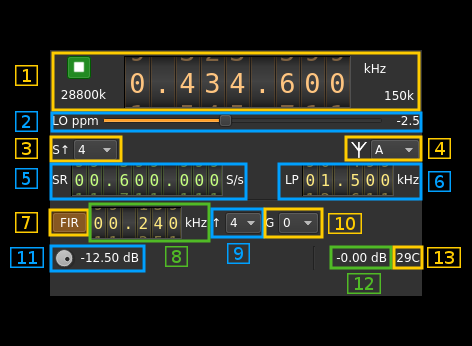
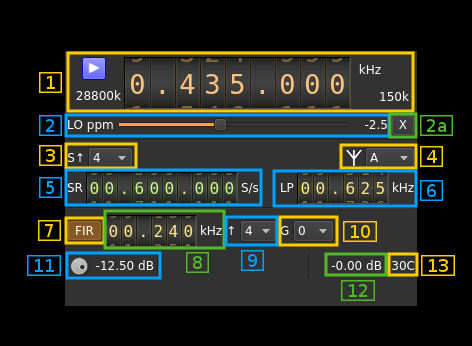
PlutoSDR output: implemented transverter feature

Changed region(s): [[0.0, 0.1445, 0.9788, 0.896], [0.3856, 0.2023, 0.4153, 0.2601]]

diff --git a/plugins/samplesink/plutosdroutput/plutosdroutputgui.cpp b/plugins/samplesink/plutosdroutput/plutosdroutputgui.cpp
@@ -44,7 +44,7 @@ PlutoSDROutputGUI::PlutoSDROutputGUI(DeviceSinkAPI *deviceAPI, QWidget* parent) 
 
     ui->setupUi(this);
     ui->centerFrequency->setColorMapper(ColorMapper(ColorMapper::GrayGold));
-    ui->centerFrequency->setValueRange(7, DevicePlutoSDR::loLowLimitFreq/1000, DevicePlutoSDR::loHighLimitFreq/1000);
+    updateFrequencyLimits();
 
     ui->sampleRate->setColorMapper(ColorMapper(ColorMapper::GrayGreenYellow));
     ui->sampleRate->setValueRange(8, DevicePlutoSDR::srLowLimitFreq, DevicePlutoSDR::srHighLimitFreq);
@@ -238,8 +238,21 @@ void PlutoSDROutputGUI::on_antenna_currentIndexChanged(int index)
     sendSettings();
 }
 
+void PlutoSDROutputGUI::on_transverter_clicked()
+{
+    m_settings.m_transverterMode = ui->transverter->getDeltaFrequencyAcive();
+    m_settings.m_transverterDeltaFrequency = ui->transverter->getDeltaFrequency();
+    qDebug("PlutoSDROutputGUI::on_transverter_clicked: %lld Hz %s", m_settings.m_transverterDeltaFrequency, m_settings.m_transverterMode ? "on" : "off");
+    updateFrequencyLimits();
+    m_settings.m_centerFrequency = ui->centerFrequency->getValueNew()*1000;
+    sendSettings();
+}
+
 void PlutoSDROutputGUI::displaySettings()
 {
+    ui->transverter->setDeltaFrequency(m_settings.m_transverterDeltaFrequency);
+    ui->transverter->setDeltaFrequencyActive(m_settings.m_transverterMode);
+    updateFrequencyLimits();
     ui->centerFrequency->setValue(m_settings.m_centerFrequency / 1000);
     ui->sampleRate->setValue(m_settings.m_devSampleRate);
 
@@ -360,6 +373,21 @@ void PlutoSDROutputGUI::setSampleRateLimits()
     uint32_t low = ui->lpFIREnable->isChecked() ? DevicePlutoSDR::srLowLimitFreq / (1<<ui->lpFIRInterpolation->currentIndex()) : DevicePlutoSDR::srLowLimitFreq;
     ui->sampleRate->setValueRange(8, low, DevicePlutoSDR::srHighLimitFreq);
     ui->sampleRate->setValue(m_settings.m_devSampleRate);
+}
+
+void PlutoSDROutputGUI::updateFrequencyLimits()
+{
+    // values in kHz
+    qint64 deltaFrequency = m_settings.m_transverterMode ? m_settings.m_transverterDeltaFrequency/1000 : 0;
+    qint64 minLimit = DevicePlutoSDR::loLowLimitFreq/1000 + deltaFrequency;
+    qint64 maxLimit = DevicePlutoSDR::loHighLimitFreq/1000 + deltaFrequency;
+
+    minLimit = minLimit < 0 ? 0 : minLimit > 9999999 ? 9999999 : minLimit;
+    maxLimit = maxLimit < 0 ? 0 : maxLimit > 9999999 ? 9999999 : maxLimit;
+
+    qDebug("PlutoSDRInputGui::updateFrequencyLimits: delta: %lld min: %lld max: %lld", deltaFrequency, minLimit, maxLimit);
+
+    ui->centerFrequency->setValueRange(7, minLimit, maxLimit);
 }
 
 void PlutoSDROutputGUI::handleInputMessages()

diff --git a/plugins/samplesink/plutosdroutput/plutosdroutput.cpp b/plugins/samplesink/plutosdroutput/plutosdroutput.cpp
@@ -343,11 +343,23 @@ bool PlutoSDROutput::applySettings(const PlutoSDROutputSettings& settings, bool 
     std::vector<std::string> params;
     bool paramsToSet = false;
 
-    if ((m_settings.m_centerFrequency != settings.m_centerFrequency) || force)
+    if (force || (m_settings.m_centerFrequency != settings.m_centerFrequency)
+        || (m_settings.m_transverterMode != settings.m_transverterMode)
+        || (m_settings.m_transverterDeltaFrequency != settings.m_transverterDeltaFrequency))
+
     {
-        params.push_back(QString(tr("out_altvoltage1_TX_LO_frequency=%1").arg(settings.m_centerFrequency)).toStdString());
+        qint64 deviceCenterFrequency = settings.m_centerFrequency;
+        deviceCenterFrequency -= settings.m_transverterMode ? settings.m_transverterDeltaFrequency : 0;
+        deviceCenterFrequency = deviceCenterFrequency < 0 ? 0 : deviceCenterFrequency;
+
+
+        params.push_back(QString(tr("out_altvoltage1_TX_LO_frequency=%1").arg(deviceCenterFrequency)).toStdString());
         paramsToSet = true;
         forwardChangeOwnDSP = true;
+
+        qDebug() << "PlutoSDROutput::applySettings: center freq: " << settings.m_centerFrequency << " Hz"
+                << " device center freq: " << deviceCenterFrequency << " Hz";
+
     }
 
     if ((m_settings.m_lpfBW != settings.m_lpfBW) || force)

diff --git a/plugins/samplesink/plutosdroutput/plutosdroutputsettings.cpp b/plugins/samplesink/plutosdroutput/plutosdroutputsettings.cpp
@@ -36,6 +36,8 @@ void PlutoSDROutputSettings::resetToDefaults()
 	m_lpfFIRlog2Interp = 0;
 	m_att = -50;
 	m_antennaPath = RFPATH_A;
+    m_transverterMode = false;
+    m_transverterDeltaFrequency = 0;
 }
 
 QByteArray PlutoSDROutputSettings::serialize() const
@@ -52,6 +54,8 @@ QByteArray PlutoSDROutputSettings::serialize() const
     s.writeU64(12, m_devSampleRate);
     s.writeS32(13, m_att);
     s.writeS32(14, (int) m_antennaPath);
+    s.writeBool(15, m_transverterMode);
+    s.writeS64(16, m_transverterDeltaFrequency);
 
 	return s.final();
 }
@@ -91,6 +95,8 @@ bool PlutoSDROutputSettings::deserialize(const QByteArray& data)
         } else {
             m_antennaPath = RFPATH_A;
         }
+        d.readBool(15, &m_transverterMode, false);
+        d.readS64(16, &m_transverterDeltaFrequency, 0);
 
 		return true;
 	}

diff --git a/plugins/samplesink/plutosdroutput/plutosdroutputgui.h b/plugins/samplesink/plutosdroutput/plutosdroutputgui.h
@@ -72,6 +72,7 @@ private:
     void updateSampleRateAndFrequency();
     void setFIRBWLimits();
     void setSampleRateLimits();
+    void updateFrequencyLimits();
 
 private slots:
     void on_startStop_toggled(bool checked);
@@ -86,6 +87,7 @@ private slots:
     void on_lpFIRGain_currentIndexChanged(int index);
     void on_att_valueChanged(int value);
     void on_antenna_currentIndexChanged(int index);
+    void on_transverter_clicked();
     void updateHardware();
     void updateStatus();
     void handleInputMessages();

diff --git a/plugins/samplesink/plutosdroutput/plutosdroutputsettings.h b/plugins/samplesink/plutosdroutput/plutosdroutputsettings.h
@@ -42,6 +42,8 @@ struct PlutoSDROutputSettings {
     quint32 m_lpfBW;              //!< analog lowpass filter bandwidth (Hz)
     qint32  m_att;                //!< "hardware" attenuation in dB fourths
     RFPath  m_antennaPath;
+    bool m_transverterMode;
+    qint64 m_transverterDeltaFrequency;
 
 
     PlutoSDROutputSettings();

diff --git a/plugins/samplesink/plutosdroutput/readme.md b/plugins/samplesink/plutosdroutput/readme.md
@@ -59,6 +59,36 @@ Baseband I/Q sample rate in kS/s. This is the host to device sample rate (5) div
 
 Use this slider to adjust LO correction in ppm. It can be varied from -20.0 to 20.0 in 0.1 steps and is applied in hardware. This applies to the oscillator that controls both the Tx and Rx frequency therefore it is also changed on the Rx plugin if it is active.
 
+<h3>2a: Transverter mode open dialog</h3>
+
+This button opens a dialog to set the transverter mode frequency translation options:
+
+![SDR Daemon source input stream trasverter dialog](../../../doc/img/RTLSDR_plugin_xvrt.png)
+
+Note that if you mouse over the button a tooltip appears that displays the translating frequency and if translation is enabled or disabled. When the frequency translation is enabled the button is lit.
+
+<h4>2a.1: Translating frequency</h4>
+
+You can set the translating frequency in Hz with this dial. Use the wheels to adjust the sample rate. Left click on a digit sets the cursor position at this digit. Right click on a digit sets all digits on the right to zero. This effectively floors value at the digit position. Wheels are moved with the mousewheel while pointing at the wheel or by selecting the wheel with the left mouse click and using the keyboard arroews. Pressing shift simultanoeusly moves digit by 5 and pressing control moves it by 2.
+
+The frequency set in the device is the frequency on the main dial (1) minus this frequency. Thus it is positive for up converters and negative for down converters. 
+
+For example with a mixer at 120 MHz for HF operation you would set the value to -120,000,000 Hz so that if the main dial frequency is set to 7,130 kHz the PuotSDR will be set to 127.130 MHz.
+
+If you use an up converter to transmit at the 6 cm band narrowband center frequency of 5670 MHz aith the PlutoSDR set at 432 MHz you would set the translating frequency to 5760 - 432 = 5328 MHz thus dial +5,328,000,000 Hz.
+
+For bands even higher in the frequency spectrum the GHz digits are not really significant so you can have them set at 1 GHz. Thus to transmit at the 10368 MHz frequency with 432 MHz for the PlutoSDR you would set the translating frequency to 1368 - 432 = 936 MHz. Note that in this case the frequency of the LO used in the mixer of the transverter is set at 9936 MHz.
+
+The Hz precision allows a fine tuning of the transverter LO offset
+
+<h4>2a.2: Translating frequency enable/disable</h4>
+
+Use this toggle button to activate or deactivate the frequency translation
+
+<h4>2a.3: Confirmation buttons</h4>
+
+Use these buttons to confirm ("OK") or dismiss ("Cancel") your changes. 
+
 <h3>3: Software interpolation factor</h3>
 
 The I/Q stream to the PlutoSDR is upsampled by a power of two by software inside the plugin from the signal coming from the passband. Possible values are increasing powers of two: 1 (no interpolation), 2, 4, 8, 16, 32.

diff --git a/plugins/samplesource/plutosdrinput/readme.md b/plugins/samplesource/plutosdrinput/readme.md
@@ -86,7 +86,7 @@ You can set the translating frequency in Hz with this dial. Use the wheels to ad
 
 The frequency set in the device is the frequency on the main dial (1) minus this frequency. Thus it is positive for down converters and negative for up converters. 
 
-For example with the DX Patrol that has a mixer at 120 MHz for HF operation you would set the value to -120,000,000 Hz so that if the main dial frequency is set at 7,130 kHz the RTLSDR of the DX Patrol will be set to 127.130 MHz.
+For example a mixer at 120 MHz for HF operation you would set the value to -120,000,000 Hz so that if the main dial frequency is set at 7,130 kHz the PlutoSDR will be set to 127.130 MHz.
 
 If you use a down converter to receive the 6 cm band narrowband center frequency of 5670 MHz at 432 MHz you would set the translating frequency to 5760 - 432 = 5328 MHz thus dial +5,328,000,000 Hz.
 
